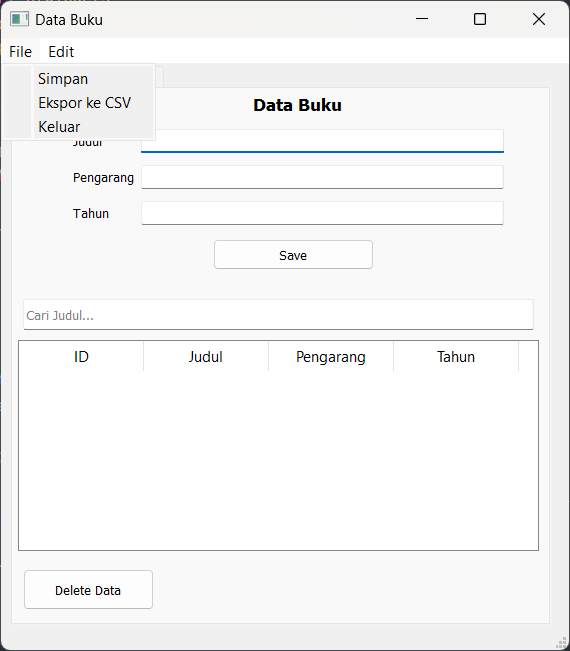
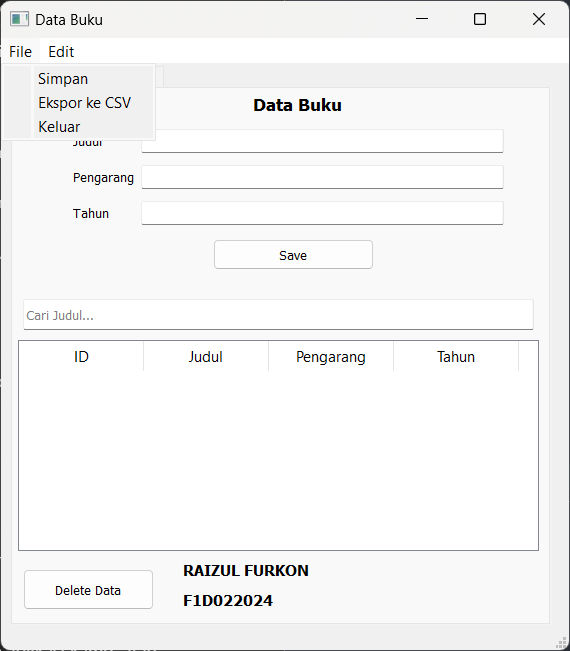
commit

Changed region(s): [[0.2982, 0.8602, 0.5368, 0.9524]]

diff --git a/mainUI.py b/mainUI.py
@@ -13,11 +13,11 @@ class MainApp(QMainWindow):
         self.ui = Ui_MainWindow()
         self.ui.setupUi(self)
 
-        # Setup database
         self.setup_database()
         self.load_data()
 
-        # Tombol dan menu
+        self.editing_id = None
+
         self.ui.pushButton.clicked.connect(self.simpan_data)
         self.ui.pushButton_2.clicked.connect(self.ekspor_csv)
         self.ui.actionKeluar.triggered.connect(self.closeEvent)
@@ -27,6 +27,8 @@ class MainApp(QMainWindow):
         self.ui.actionHapus_Data.triggered.connect(self.hapus_data)
         self.ui.cariJudul.textChanged.connect(self.cari_judul)
         self.ui.delete_btn.clicked.connect(self.hapus_data)
+        self.ui.tableWidget.itemChanged.connect(self.perbarui_data_di_database)
+        self.is_updating_table = False
 
     def setup_database(self):
         self.conn = sqlite3.connect(DB_NAME)
@@ -42,12 +44,14 @@ class MainApp(QMainWindow):
         self.conn.commit()
 
     def load_data(self):
+        self.is_updating_table = True
         self.ui.tableWidget.setRowCount(0)
         self.db_cursor.execute("SELECT * FROM buku")
         for row_index, row_data in enumerate(self.db_cursor.fetchall()):
             self.ui.tableWidget.insertRow(row_index)
             for col_index, data in enumerate(row_data):
                 self.ui.tableWidget.setItem(row_index, col_index, QtWidgets.QTableWidgetItem(str(data)))
+        self.is_updating_table = False
 
     def simpan_data(self):
         judul = self.ui.judulLineEdit.text()
@@ -58,14 +62,26 @@ class MainApp(QMainWindow):
             QMessageBox.warning(self, "Input Error", "Semua field harus diisi!")
             return
 
-        self.db_cursor.execute("INSERT INTO buku (judul, pengarang, tahun) VALUES (?, ?, ?)",
-                            (judul, pengarang, tahun))
+        if self.editing_id is not None:
+            self.db_cursor.execute(
+                "UPDATE buku SET judul = ?, pengarang = ?, tahun = ? WHERE id = ?",
+                (judul, pengarang, tahun, self.editing_id)
+            )
+            QMessageBox.information(self, "Sukses", "Data berhasil diperbarui.")
+        else:
+            self.db_cursor.execute(
+                "INSERT INTO buku (judul, pengarang, tahun) VALUES (?, ?, ?)",
+                (judul, pengarang, tahun)
+            )
+            QMessageBox.information(self, "Sukses", "Data berhasil disimpan.")
+
         self.conn.commit()
         self.load_data()
 
         self.ui.judulLineEdit.clear()
         self.ui.pengarangLineEdit.clear()
         self.ui.tahunLineEdit.clear()
+        self.editing_id = None
 
     def ekspor_csv(self):
         path, _ = QtWidgets.QFileDialog.getSaveFileName(self, "Simpan CSV", "", "CSV Files (*.csv)")
@@ -119,8 +135,60 @@ class MainApp(QMainWindow):
                     self.db_cursor.execute("DELETE FROM buku WHERE id = ?", (book_id,))
                     self.conn.commit()
                     self.load_data()
+                    if self.editing_id == book_id:
+                        self.editing_id = None
+                        self.ui.judulLineEdit.clear()
+                        self.ui.pengarangLineEdit.clear()
+                        self.ui.tahunLineEdit.clear()
         else:
             QMessageBox.warning(self, "Peringatan", "Pilih baris yang akan dihapus.")
+    
+    def perbarui_data_di_database(self, item):
+        if self.is_updating_table:
+            return  
+
+        row = item.row()
+
+        # Ambil semua item di baris yang diubah
+        item_id = self.ui.tableWidget.item(row, 0)
+        item_judul = self.ui.tableWidget.item(row, 1)
+        item_pengarang = self.ui.tableWidget.item(row, 2)
+        item_tahun = self.ui.tableWidget.item(row, 3)
+
+        if not (item_id and item_judul and item_pengarang and item_tahun):
+            return 
+
+        try:
+            book_id = int(item_id.text())
+            judul = item_judul.text()
+            pengarang = item_pengarang.text()
+            tahun = item_tahun.text()
+
+            if not (judul and pengarang and tahun):
+                return  
+
+            self.db_cursor.execute(
+                "UPDATE buku SET judul = ?, pengarang = ?, tahun = ? WHERE id = ?",
+                (judul, pengarang, tahun, book_id)
+            )
+            self.conn.commit()
+
+            QMessageBox.information(self, "Sukses", "Data berhasil diperbarui.")
+        except Exception as e:
+            QMessageBox.critical(self, "Error", f"Gagal memperbarui data: {str(e)}")
+
+
+    def edit_data(self, row, column):
+        item_id = self.ui.tableWidget.item(row, 0)
+        item_judul = self.ui.tableWidget.item(row, 1)
+        item_pengarang = self.ui.tableWidget.item(row, 2)
+        item_tahun = self.ui.tableWidget.item(row, 3)
+
+        if item_id and item_judul and item_pengarang and item_tahun:
+            self.editing_id = int(item_id.text())
+            self.ui.judulLineEdit.setText(item_judul.text())
+            self.ui.pengarangLineEdit.setText(item_pengarang.text())
+            self.ui.tahunLineEdit.setText(item_tahun.text())
 
     def closeEvent(self, event):
         self.conn.close()

diff --git a/window_book_ui.py b/window_book_ui.py
@@ -84,6 +84,22 @@ class Ui_MainWindow(object):
         self.delete_btn = QtWidgets.QPushButton(self.data_buku)
         self.delete_btn.setGeometry(QtCore.QRect(10, 480, 131, 41))
         self.delete_btn.setObjectName("delete_btn")
+        self.label_2 = QtWidgets.QLabel(self.data_buku)
+        self.label_2.setGeometry(QtCore.QRect(170, 470, 131, 21))
+        font = QtGui.QFont()
+        font.setPointSize(9)
+        font.setBold(True)
+        font.setWeight(75)
+        self.label_2.setFont(font)
+        self.label_2.setObjectName("label_2")
+        self.label_3 = QtWidgets.QLabel(self.data_buku)
+        self.label_3.setGeometry(QtCore.QRect(170, 500, 91, 21))
+        font = QtGui.QFont()
+        font.setPointSize(9)
+        font.setBold(True)
+        font.setWeight(75)
+        self.label_3.setFont(font)
+        self.label_3.setObjectName("label_3")
         self.tabWidget.addTab(self.data_buku, "")
         self.ekspor = QtWidgets.QWidget()
         self.ekspor.setObjectName("ekspor")
@@ -149,6 +165,8 @@ class Ui_MainWindow(object):
         self.label.setText(_translate("MainWindow", "Data Buku"))
         self.cariJudul.setPlaceholderText(_translate("MainWindow", "Cari Judul..."))
         self.delete_btn.setText(_translate("MainWindow", "Delete Data"))
+        self.label_2.setText(_translate("MainWindow", "RAIZUL FURKON"))
+        self.label_3.setText(_translate("MainWindow", "F1D022024"))
         self.tabWidget.setTabText(self.tabWidget.indexOf(self.data_buku), _translate("MainWindow", "Data Buku"))
         self.pushButton_2.setText(_translate("MainWindow", "Save to CSV"))
         self.tabWidget.setTabText(self.tabWidget.indexOf(self.ekspor), _translate("MainWindow", "Ekspor"))
